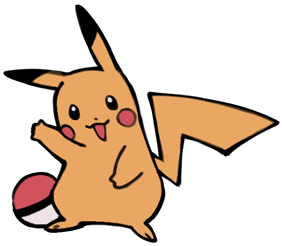
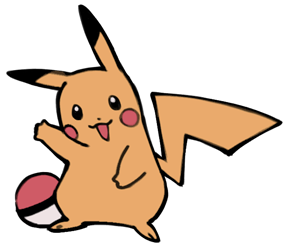
Add files via upload

diff --git a/POKÉMON CHAMP_files/style.css b/POKÉMON CHAMP_files/style.css
@@ -181,7 +181,7 @@ body{
 #redadult { width: 145px;}
 #victor {   width: 130px;}
 #gloria {   width: 110px;}
-#pika {     width: 141px;}
+#pika {     width: 143px;}
 
 #img1,#img2,#img3,#img4,#img5,#img6,#img6,#img7,#img8,#img9,#img10,#img11,#img12,#img13,#img14,#img15,#img16,#img17,#img18,#img19,#img20,#img21 {
 	position:absolute;
